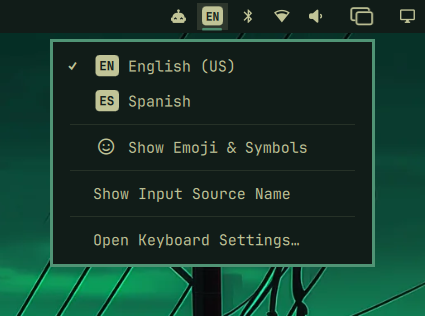
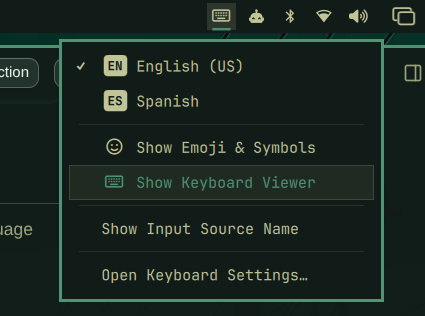
Make menu actions and bar appearance configurable

diff --git a/Widget.qml b/Widget.qml
@@ -3,8 +3,8 @@ import Quickshell
 import qs.Commons
 import qs.Ui
 
-// The bar icon and the layouts menu. The menu holds the layout icon, a ✓ on the
-// active layout, Emoji & Symbols, the name toggle and Keyboard Settings.
+// The bar icon and the layouts menu. Optional menu actions can be hidden in
+// the widget settings; layout choices always remain available.
 // Omarchy's panel components draw all of it.
 Panel {
   id: root
@@ -18,6 +18,11 @@ Panel {
   readonly property int activeIndex: svc ? svc.activeIndex : 0
   readonly property var activeLayout: svc ? svc.activeLayout : null
   readonly property bool showSourceName: setting("showSourceName", false) === true
+  readonly property string barAppearance: setting("barAppearance", "icon")
+  readonly property bool showEmojiAndSymbols: setting("showEmojiAndSymbols", true) !== false
+  readonly property bool showKeyboardViewer: setting("showKeyboardViewer", true) !== false
+  readonly property bool showSourceNameMenuItem: setting("showSourceNameMenuItem", true) !== false
+  readonly property bool showKeyboardSettings: setting("showKeyboardSettings", true) !== false
   readonly property string screenName: {
     var win = button.QsWindow.window
     return win && win.screen ? String(win.screen.name) : ""
@@ -28,16 +33,27 @@ Panel {
 
   // Menu rows in display order. Keyboard navigation steps over the separators.
   readonly property var rows: {
+    if (layouts.length === 0) return []
     var out = layouts.map(function(s) {
       return { kind: "layout", index: s.index, label: s.name, glyph: s.glyph }
     })
-    out.push({ kind: "separator" })
-    out.push({ kind: "action", action: "emoji", label: "Show Emoji & Symbols", icon: "" })
-    out.push({ kind: "action", action: "viewer", label: svc && svc.viewerOpened ? "Hide Keyboard Viewer" : "Show Keyboard Viewer", icon: "" })
-    out.push({ kind: "separator" })
-    out.push({ kind: "action", action: "sourceName", label: "Show Input Source Name", checked: showSourceName })
-    out.push({ kind: "separator" })
-    out.push({ kind: "action", action: "settings", label: "Open Keyboard Settings…" })
+    var actions = []
+    if (showEmojiAndSymbols)
+      actions.push({ kind: "action", action: "emoji", label: "Show Emoji & Symbols", icon: "" })
+    if (showKeyboardViewer)
+      actions.push({ kind: "action", action: "viewer", label: svc && svc.viewerOpened ? "Hide Keyboard Viewer" : "Show Keyboard Viewer", icon: "" })
+    if (actions.length > 0) {
+      out.push({ kind: "separator" })
+      out = out.concat(actions)
+    }
+    if (showSourceNameMenuItem) {
+      out.push({ kind: "separator" })
+      out.push({ kind: "action", action: "sourceName", label: "Show Input Source Name", checked: showSourceName })
+    }
+    if (showKeyboardSettings) {
+      out.push({ kind: "separator" })
+      out.push({ kind: "action", action: "settings", label: "Open Keyboard Settings…" })
+    }
     return out
   }
 
@@ -158,7 +174,17 @@ Panel {
       anchors.centerIn: parent
       spacing: Style.space(5)
 
+      Text {
+        visible: root.opened
+        anchors.verticalCenter: parent.verticalCenter
+        text: ""
+        color: root.foreground
+        font.family: root.fontFamily
+        font.pixelSize: Style.font.title
+      }
+
       LayoutIcon {
+        visible: !root.opened && root.barAppearance !== "bordered" && root.barAppearance !== "text"
         anchors.verticalCenter: parent.verticalCenter
         size: Style.space(15)
         glyph: root.activeLayout ? root.activeLayout.glyph : ""
@@ -167,8 +193,41 @@ Panel {
         fontFamily: root.fontFamily
       }
 
+      Rectangle {
+        visible: !root.opened && root.barAppearance === "bordered"
+        anchors.verticalCenter: parent.verticalCenter
+        implicitWidth: borderedCode.implicitWidth + Style.space(8)
+        implicitHeight: Style.space(19)
+        radius: Style.space(4)
+        color: "transparent"
+        border.width: 1
+        border.color: root.foreground
+
+        Text {
+          id: borderedCode
+          anchors.centerIn: parent
+          textFormat: Text.PlainText
+          text: root.activeLayout ? root.activeLayout.glyph : ""
+          color: root.foreground
+          font.family: root.fontFamily
+          font.pixelSize: Style.font.body
+          font.bold: true
+        }
+      }
+
       Text {
-        visible: root.showSourceName && root.activeLayout !== null
+        visible: !root.opened && root.barAppearance === "text"
+        anchors.verticalCenter: parent.verticalCenter
+        textFormat: Text.PlainText
+        text: root.activeLayout ? root.activeLayout.glyph : ""
+        color: root.foreground
+        font.family: root.fontFamily
+        font.pixelSize: Style.font.body
+        font.bold: true
+      }
+
+      Text {
+        visible: !root.opened && root.showSourceName && root.activeLayout !== null
         anchors.verticalCenter: parent.verticalCenter
         textFormat: Text.PlainText
         text: root.activeLayout ? root.activeLayout.name : ""

diff --git a/README.md b/README.md
@@ -6,14 +6,18 @@ menu, or bind Ctrl+Space to go straight back to the layout you used before and
 Ctrl+Alt+Space to step forward through them.
 Plugin ID: `jesusarchive.keyboard-layout-switcher`. MIT licensed.
 
-![The EN badge in the bar with the layouts menu open, listing English (US) and Spanish](preview.png)
+![The layouts menu open, listing English (US) and Spanish](preview.png)
 
-- The bar badge carries the layout's language code from xkb. Hover it for the
-  full name ("Spanish"), or turn on "Show Input Source Name" in the menu to
-  keep the name next to the badge.
-- The layouts menu lists every layout with a ✓ on the active one, then "Show
-  Emoji & Symbols" (Omarchy's emoji picker), "Show Keyboard Viewer", "Show
-  Input Source Name", and "Open Keyboard Settings…" (`~/.config/hypr/input.lua`).
+- The bar shows the layout's short language code from xkb (`EN`, `ES`). Choose
+  a filled icon, bordered badge, or plain text in the widget settings. Hover
+  it for the full name ("Spanish"), or turn on "Show Input Source Name" in the
+  menu to keep the name next to the code. The bar shows a keyboard icon while
+  the menu is open.
+- The layouts menu lists every layout with a ✓ on the active one. Its optional
+  rows open Omarchy's Emoji & Symbols picker, show the Keyboard Viewer, toggle
+  the source name in the bar, and open Keyboard Settings
+  (`~/.config/hypr/input.lua`). Each optional row can be hidden in the plugin
+  settings.
 - The keyboard viewer floats above apps and follows the active layout. Click
   Shift or AltGr to see those symbols, and click a key to type into the focused
   app. On a physical keyboard, use Shift or Right Alt (AltGr), or both, with the
@@ -54,6 +58,27 @@ omarchy plugin enable jesusarchive.keyboard-layout-switcher
 ```
 
 Requirements: `hyprctl`, `xkbcli`, `wtype`, Python 3 and libxkbcommon. All ship with Omarchy.
+
+### Bar appearance and menu options
+
+Set `barAppearance` to `icon` (the current filled badge), `bordered` (an outline
+around the code), or `text` (the code alone). The default is `icon`.
+`showSourceName` independently adds the full layout name beside any of these.
+
+The widget settings include a switch for each optional menu row. All four rows
+are shown by default; turn off any of these settings to remove its row:
+
+| Setting | Menu row |
+|---|---|
+| `showEmojiAndSymbols` | Show Emoji & Symbols |
+| `showKeyboardViewer` | Show Keyboard Viewer |
+| `showSourceNameMenuItem` | Show Input Source Name |
+| `showKeyboardSettings` | Open Keyboard Settings… |
+
+The bar name setting still works when its menu row is hidden. If you edit
+`~/.config/omarchy/shell.json` directly, add `barAppearance` or any of these
+keys to the widget's entry. Set menu row keys to `false` to hide them.
+The layout choices and keyboard shortcuts remain available.
 
 ### Layouts
 
@@ -157,9 +182,10 @@ layout. `set` prints `unknown` for a layout that doesn't exist.
 - With two or more layouts the service re-reads the device list every 10
   seconds, because plugging a keyboard in raises no Hyprland event. A
   single-layout install has nothing to switch, so the service skips the poll.
-- Names and codes come from `xkbcli list`, read once at start. `es` becomes
-  "Spanish" and `ES`. Two layouts with the same code (`us` and `us(intl)`) get a
-  variant letter so their badges differ.
+- Names and short language codes come from `xkbcli list`, read once at start.
+  `us` becomes `EN`; `es` becomes `ES` with the name "Spanish". Two entries
+  with the same code (`us` and `us(intl)`) get a variant letter so their
+  badges differ.
 - Ctrl+Space keeps a most-recently-used list, and a run of presses while the
   switcher is up counts as one use.
 - A Ctrl+Space takes the keyboard straight away and draws nothing. That grab is
